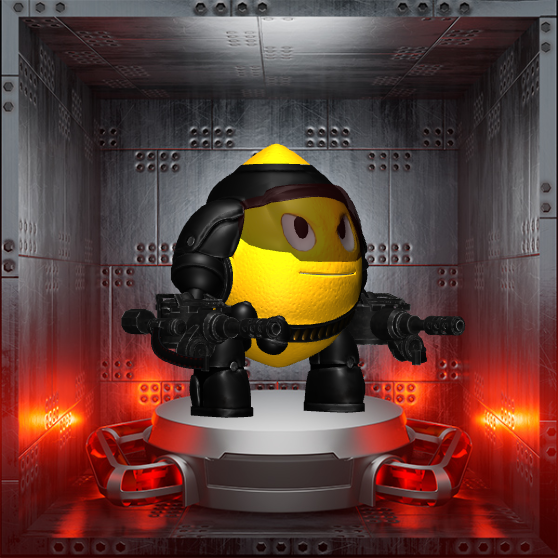
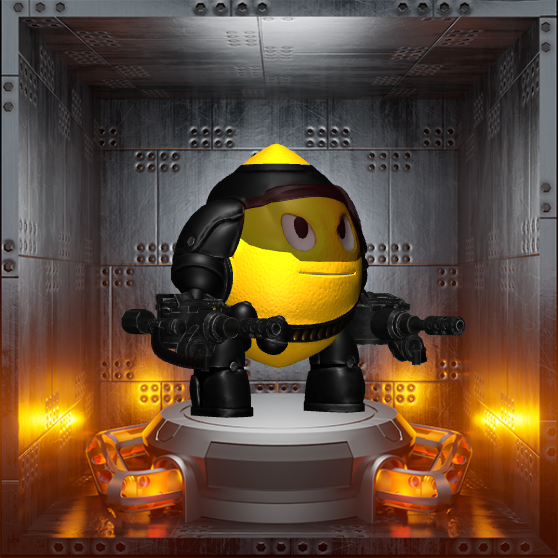
Update images

Changed region(s): [[0.0, 0.6093, 1.0, 0.9749], [0.457, 0.6703, 0.5484, 0.7312]]

diff --git a/src/components/threejs/Lemon.svelte b/src/components/threejs/Lemon.svelte
@@ -8,6 +8,16 @@ import download from '../svg/download';
 
   const lemonSettings = Object.values(lemons)[nft.token_id % 4]
 
+  const backgrounds = [
+    '/img/postaments/red.jpg',
+    '/img/postaments/blue.jpg',
+    '/img/postaments/green.jpg',
+    '/img/postaments/lightblue.jpg',
+    '/img/postaments/orange.jpg',
+    '/img/postaments/purple.jpg',
+    '/img/postaments/yellow.jpg'
+  ]
+
   onMount(async () => {
     const { Model } = await import('$src/components/threejs/model')
     const model = new Model({
@@ -17,7 +27,7 @@ import download from '../svg/download';
         cam: 12,
         globalScale: 1,
         translateY: -1.27,
-        background: "/img/postaments/red.jpg",
+        background: backgrounds[nft.token_id % 7],
         lemonSettings
     })
     $threeStore.init(model)

diff --git a/src/routes/shop/items.svelte b/src/routes/shop/items.svelte
@@ -3,7 +3,7 @@
   import WeaponPreview from '$src/components/card/WeaponPreview.svelte'
   import TopMenu from '$src/components/filter/TopMenu.svelte'
 
-  let images = ["mix2a.png", "mix1a.png", "Big_optic2a.png", "Big_optic1a.png", "10a.png","9a.png","8a.png", "7a.png", "6a.png", "5a.png", "2a.png", "1a.png"]
+  let images = ["mix1a.png", "Big_optic2a.png", "Big_optic1a.png", "10a.png","9a.png","8a.png", "7a.png", "6a.png", "5a.png", "2a.png", "1a.png"]
 </script>
 
 <section class="catalog">

diff --git a/src/routes/kitchen/items.svelte b/src/routes/kitchen/items.svelte
@@ -3,7 +3,7 @@
   import WeaponPreview from '$src/components/card/WeaponPreview.svelte'
   import near from '$src/utils/near'
 
-  let images = ["mix2a.png", "Big_optic1a.png", "10a.png","9a.png","8a.png"]
+  let images = ["Big_optic1a.png", "10a.png","9a.png","8a.png"]
 </script>
 
 <style>
